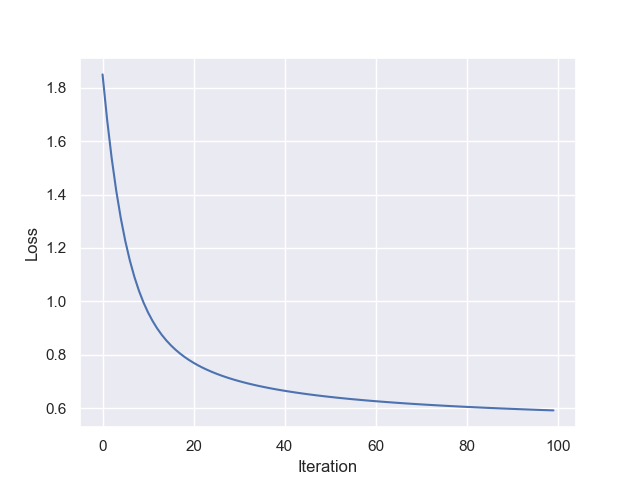
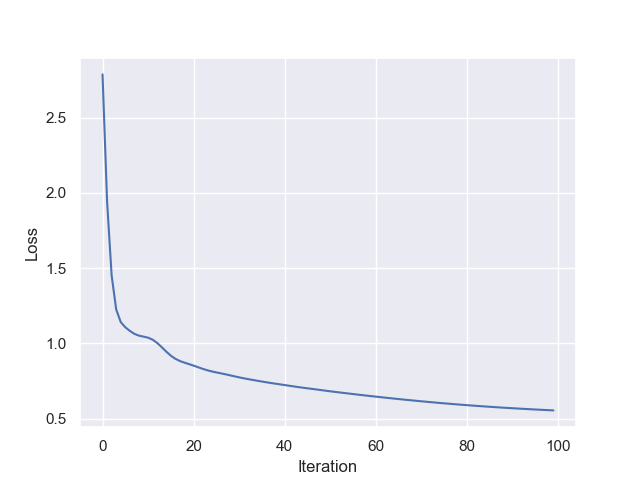
added tensorflow/keras optimizer

diff --git a/model/model.py b/model/model.py
@@ -5,43 +5,40 @@ import time
 class Recommender:
 	def __init__(self,movies,users):
 		self.n=10
-		self.Theta=np.random.rand(users,self.n)
-		self.X=np.random.rand(movies,self.n)
+		self.Theta=tf.Variable(np.random.rand(users,self.n))
+		self.X=tf.Variable(np.random.rand(movies,self.n))
 
-	def fit(self,Y,R,epochs=20,alpha=0.00001,validation_split=0.2):
+	def fit(self,Y,R,epochs=20,alpha=0.001):
 		
 		history=[]
+
+		indices=np.asarray(np.where(R==1)).T
+		ratings=Y[R==1]
+		sparse_Y=tf.SparseTensor(indices=indices,
+									values=ratings,
+									dense_shape=Y.shape)
+
+		loss = lambda: tf.losses.mean_squared_error(sparse_Y.values,
+				tf.reduce_sum(
+				tf.gather(self.X, sparse_Y.indices[:, 0]) *
+				tf.gather(self.Theta, sparse_Y.indices[:, 1]),
+				axis=1))
+
+		opt=tf.keras.optimizers.Adam(learning_rate=alpha)
 		
-		total_ratings=sum(sum(R))
-		for i in range(epochs):
-			#start=time.time()
+		for epoch in range(epochs):
 
-			cost=(1/(2*total_ratings)) * sum(sum((np.matmul(self.X, self.Theta.T) * R - Y)**2)) # ((X*Theta')*R - Y)^2
-			#end=time.time()
-			#print('Cost',end-start)
-			history.append(cost)
-			X_grad=np.zeros(self.X.shape)
-			#start=time.time()
-			for i in range(len(self.X)):
-				X_grad[i] = np.matmul(
-									(np.matmul(
-										self.X[i],
-										self.Theta[R[i,:]==1].T) - Y[i,R[i,:]==1]),
-									self.Theta[R[i,:]==1])
+			with tf.GradientTape() as tape:
+				loss_value = loss()
 
-			Theta_grad=np.zeros(self.Theta.shape)
-			for j in range(len(self.Theta)):
-				Theta_grad[j] = np.matmul(
-									(np.matmul(
-										self.X[R[:,j]==1],
-										self.Theta[j].T) - Y[R[:,j]==1,j]),
-									self.X[R[:,j]==1])
-			#end=time.time()
-			#print('Gradient',end-start)
-			self.X = self.X - alpha * X_grad
-			self.Theta = self.Theta - alpha * Theta_grad
+			history.append(float(loss_value))
 
-		
+			grads = tape.gradient(loss_value, [self.X,self.Theta])
+			opt.apply_gradients(zip(grads, [self.X,self.Theta]))
+			if epoch%10==0:
+				print('Epochs:', epoch, 'Loss:', float(loss_value),'\n')
+		print('Epochs:', epoch, 'Loss:', float(loss_value),'\n')
+
 
 		return history
 

diff --git a/main.py b/main.py
@@ -17,7 +17,7 @@ no_movies,no_users=Y.shape
 
 model=Recommender(no_movies,no_users)
 
-history=model.fit(Y,R,epochs=100,alpha=0.0001)
+history=model.fit(Y,R,epochs=100,alpha=0.05)
 
 plt.plot(history)
 plt.xlabel('Iteration')
